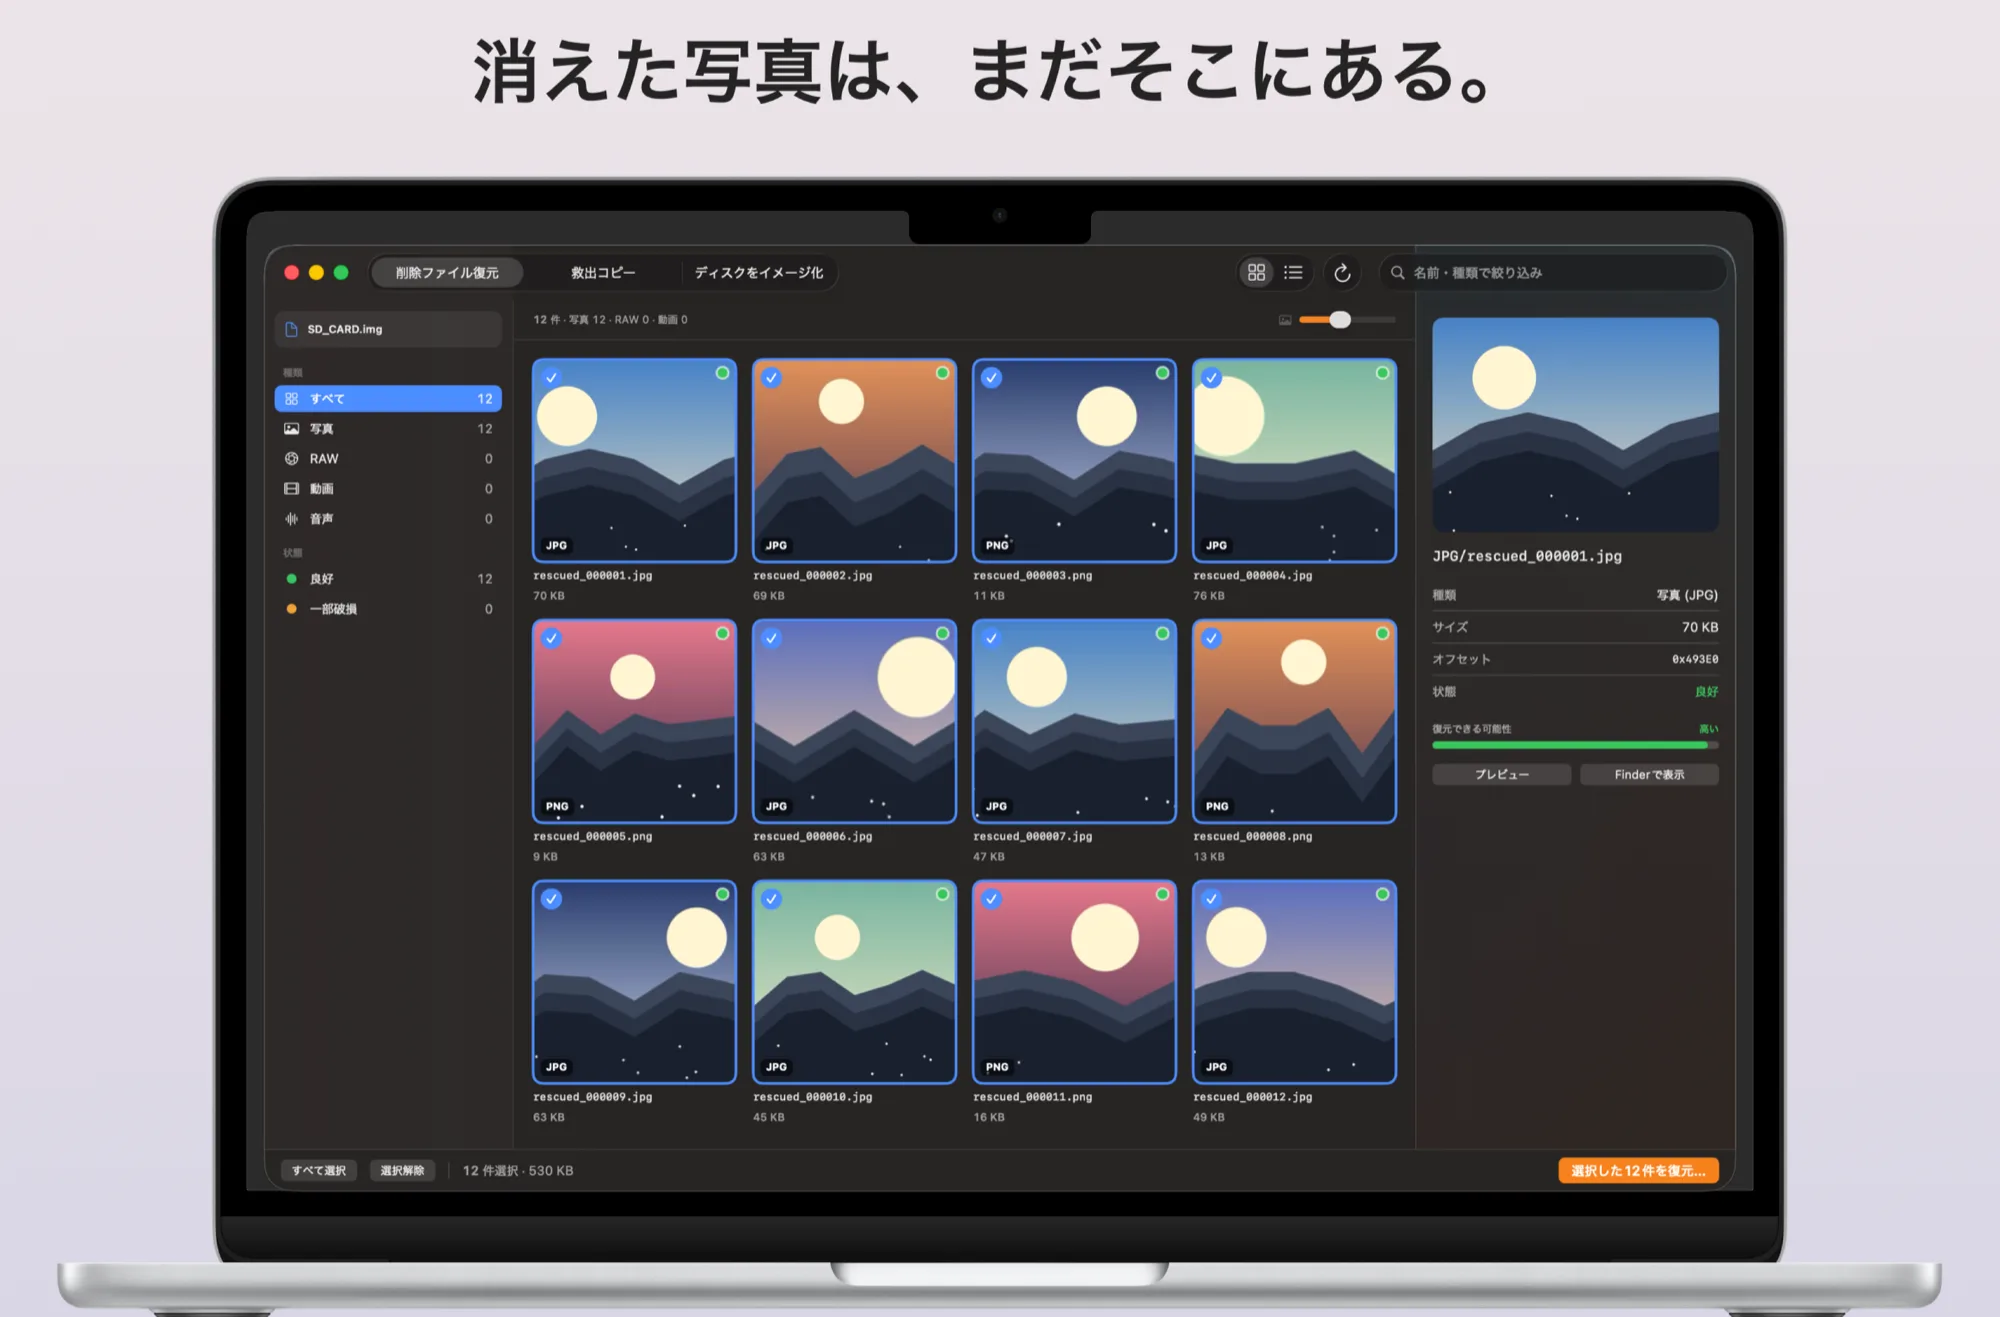
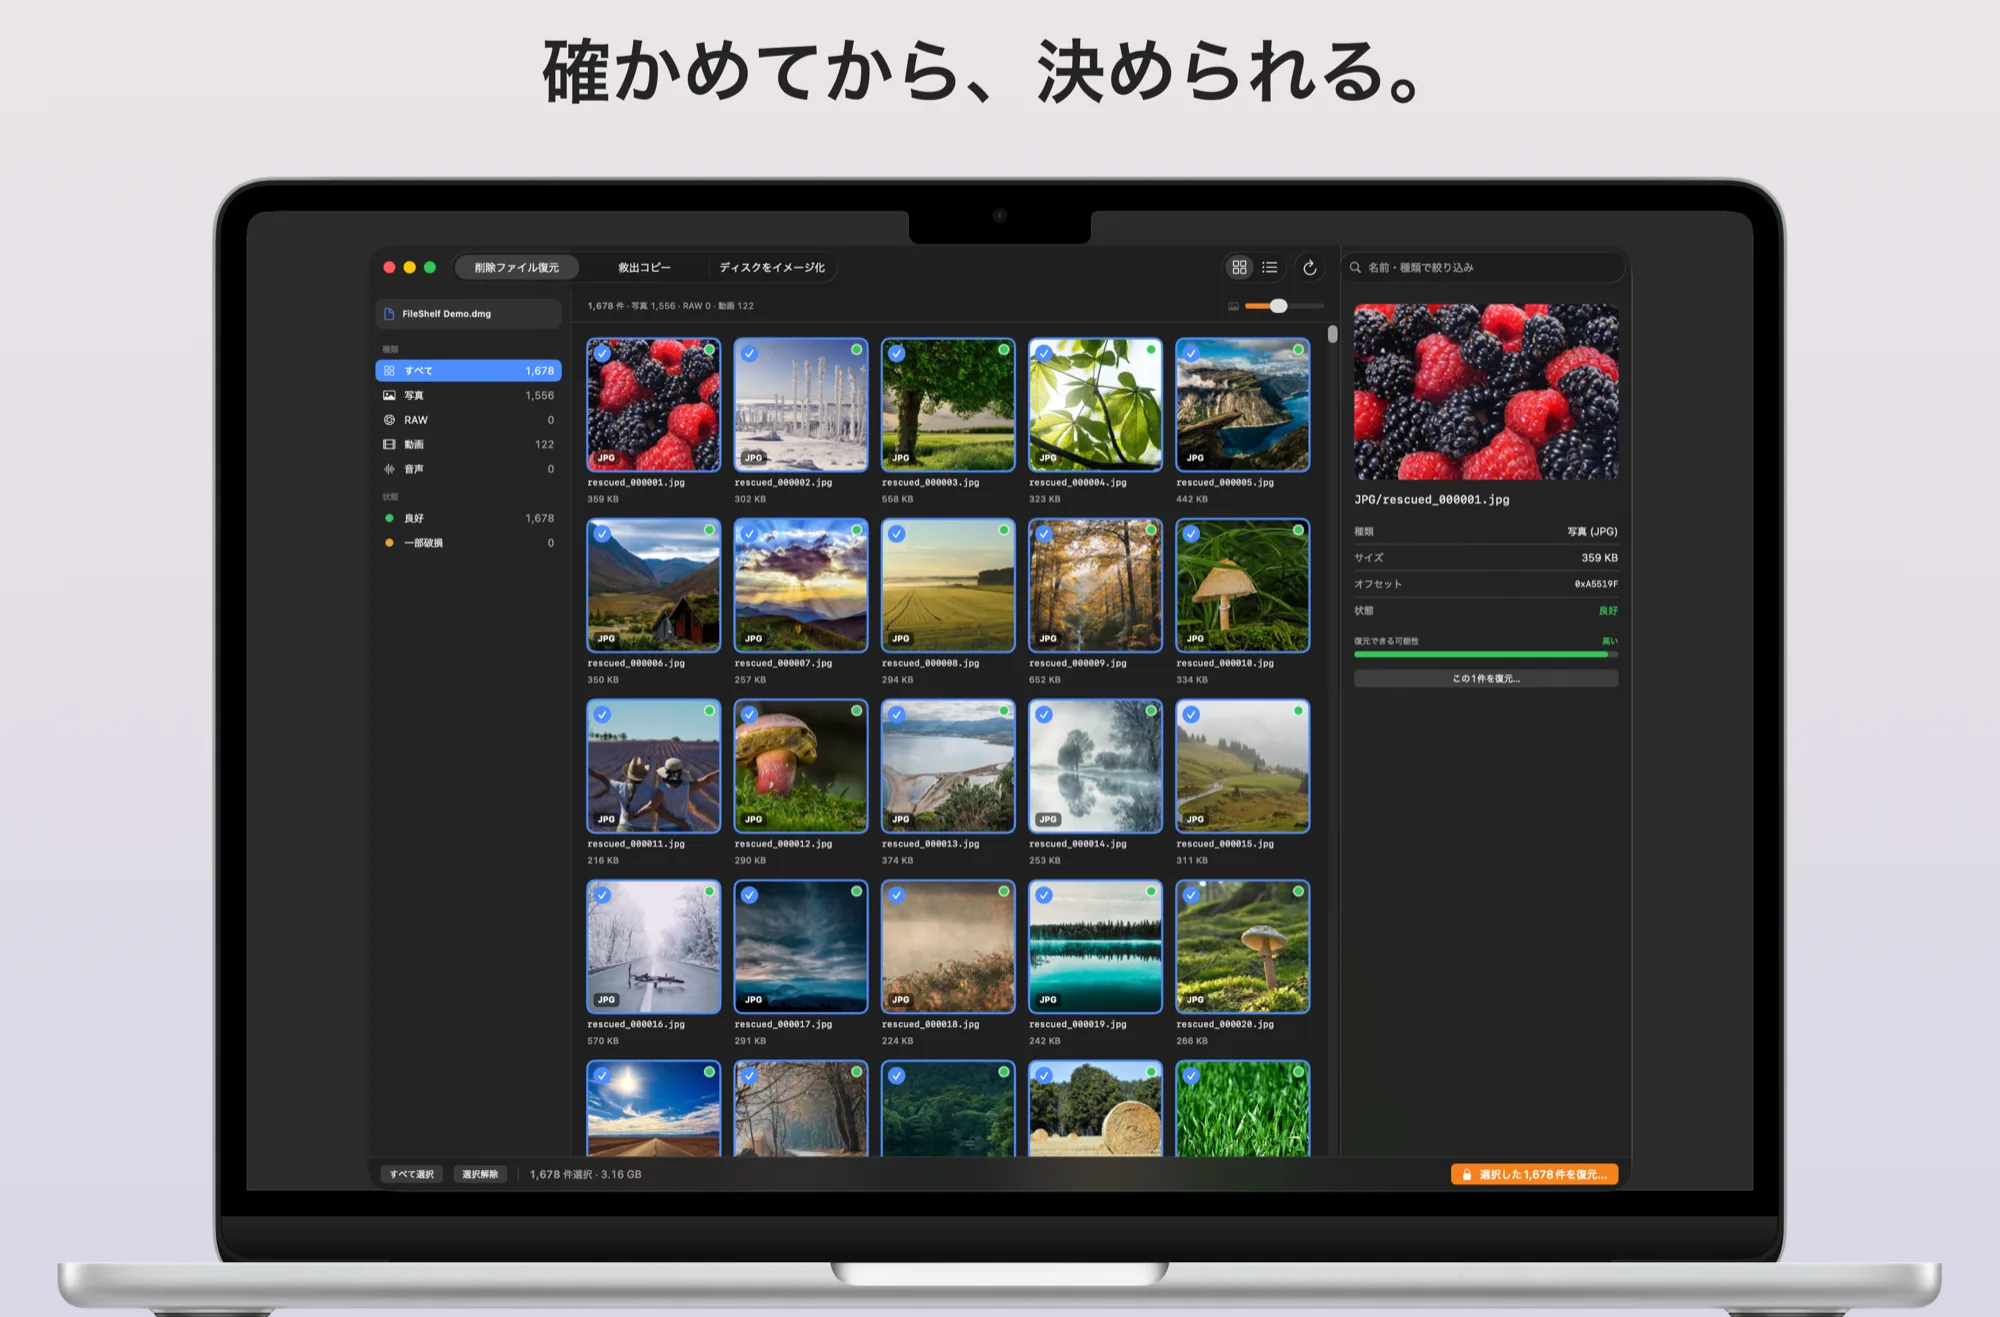
画面写真を更新し、結果画面の英語版を追加する
02(結果)の見出しを差し替えた。従来は「消えた写真は、まだそこにある。」で、
LP のヒーローと重複していたうえ「写真」限定の言い回しだった。
「確かめてから、決められる。」に変更。フリーミアムの核心そのもの。

02 の英語版を追加。復元ボタンに鍵マークが写っており、
無料で確認して有料で書き出すという仕組みが一目で伝わる。

02・03 とも実際の写真が写るようになり、以前のダミー画像より
何が復元されるのかが分かりやすくなった。

03 の英語版は取り込んでいない。サムネイルが重なって表示されており、
壊れているように見えるため。スキャン中の画面はアニメーション中に
撮ると、セルが移動の途中で写る。件数の表示も数字の遷移中で
にじんでいる。撮り直しが必要。

diff --git a/recoup.html b/recoup.html
@@ -114,8 +114,10 @@
            alt="スキャン中の画面。見つかったファイルが次々に表示される" style="display:block; width:100%; height:auto; border-radius:12px; border:1px solid rgba(17,18,20,.08);">
       <img class="shot" src="assets/shots/recoup-02.webp"
            data-ja-src="assets/shots/recoup-02.webp"
+           data-en-src="assets/shots/recoup-02-en.webp"
            width="2000" height="1317" loading="lazy" decoding="async"
            data-ja-alt="結果の画面。サムネイルで中身を確認してから復元できる"
+           data-en-alt="Results: preview every file as a thumbnail before recovering"
            alt="結果の画面。サムネイルで中身を確認してから復元できる" style="display:block; width:100%; height:auto; border-radius:12px; border:1px solid rgba(17,18,20,.08);">
     </section>
 
